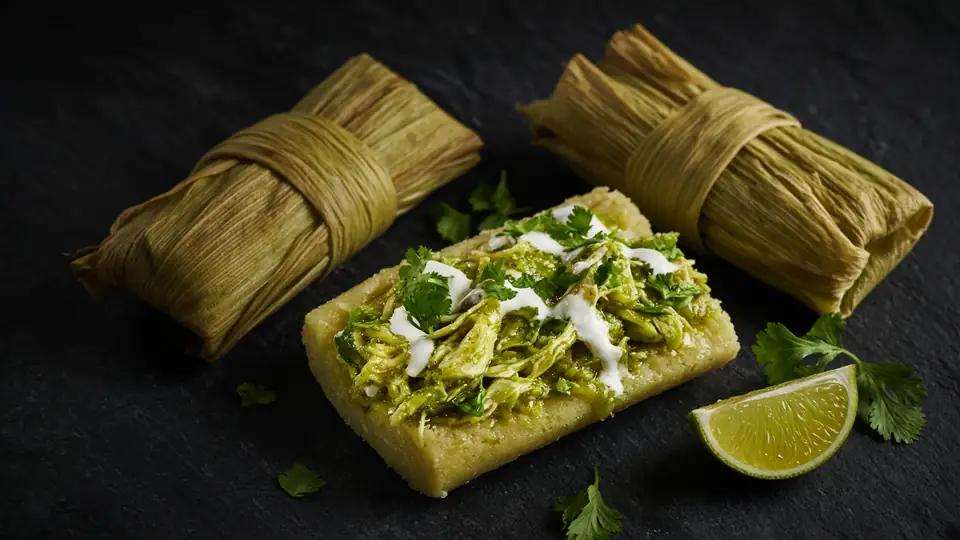
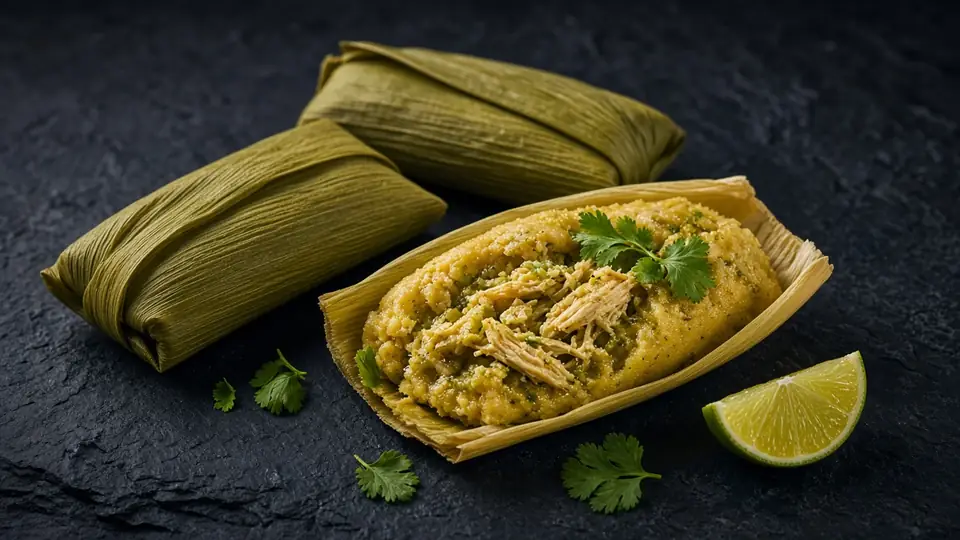
Update stock, flavor photos, and photo disclaimers. (#3)
Both flavors now have 3 dozen available. The menu uses the new tamale photos, with short illustration notes under the cards and the catering gallery. The header mark is read from config so the next logo can drop in.

diff --git a/index.html b/index.html
@@ -37,7 +37,7 @@
 
   <header class="topbar">
     <a class="brand" href="#top">
-      <img class="brandmark" src="assets/logo-icon.svg" alt="" width="500" height="500" />
+      <img class="brandmark" data-logo src="assets/logo-icon.svg" alt="" width="500" height="500" />
       <span class="brand-name">
         <strong>Arturo’s</strong>
         <span>Tamales &amp; Catering</span>
@@ -78,6 +78,7 @@
           <p>Corn masa, wrapped in husks, made for the table. Availability below is for the current batch and can change.</p>
         </div>
         <div class="menuGrid reveal" id="menu-grid"></div>
+        <p class="caption reveal">Photos are for illustration. Actual tamales may look a little different.</p>
         <div class="facts reveal">
           <div><strong data-price>$28 / dozen</strong><span>Mix the two flavors in one order</span></div>
           <div><strong>Corn masa</strong><span>Gluten-free ingredients</span></div>
@@ -210,7 +211,7 @@
             <img src="assets/catering-buffet-setup.jpg" alt="Buffet with tamales, rice, beans, and salsa" width="800" height="534" loading="lazy" decoding="async" />
           </figure>
         </div>
-        <p class="note reveal">Food photos on this page show the kind of tamales and spreads we make. They are not pictures of a specific past client event.</p>
+        <p class="caption reveal">Photos show example setups. Your menu, trays, and decor are planned with you and may differ.</p>
 
         <div class="offer-grid reveal">
           <article>
@@ -340,7 +341,7 @@
         <div class="panel reveal">
           <p><strong>Venmo</strong></p>
           <p class="muted">Confirm the account name in Venmo before you send.</p>
-          <p><a class="btn btn-primary" data-venmo href="https://venmo.com/Arturo-Gomez-70" target="_blank" rel="noopener noreferrer">Pay with Venmo</a></p>
+          <p class="pay-actions"><a class="btn btn-primary" data-venmo href="https://venmo.com/Arturo-Gomez-70" target="_blank" rel="noopener noreferrer">Pay with Venmo</a></p>
         </div>
       </div>
     </section>
@@ -372,7 +373,7 @@
     <div class="wrap foot">
       <div>
         <a class="brand brand-foot" href="#top">
-          <img class="brandmark" src="assets/logo-icon.svg" alt="" width="500" height="500" />
+          <img class="brandmark" data-logo src="assets/logo-icon.svg" alt="" width="500" height="500" />
           <span class="brand-name">
             <strong>Arturo’s</strong>
             <span>Tamales &amp; Catering</span>

diff --git a/config.js b/config.js
@@ -35,9 +35,9 @@ window.ArturoConfig = {
       description:
         "Juicy chicken and salsa verde in soft corn masa. A brighter, tangy dozen.",
       available: true,
-      dozensAvailable: 1,
+      dozensAvailable: 3,
       image: "assets/green-chicken.webp",
-      imageAlt: "A green chicken tamale in its husk on a dark slate plate, with salsa verde",
+      imageAlt: "Green chicken tamale in a corn husk on a dark plate, with salsa verde on the side",
       imageWidth: 960,
       imageHeight: 540
     },
@@ -50,7 +50,7 @@ window.ArturoConfig = {
       available: true,
       dozensAvailable: 3,
       image: "assets/red-pork.webp",
-      imageAlt: "Shredded red pork tamales on a dark slate plate with red salsa",
+      imageAlt: "Shredded red pork tamale on a dark slate plate, with salsa beside it",
       imageWidth: 960,
       imageHeight: 540
     }
@@ -81,5 +81,18 @@ window.ArturoConfig = {
 
   /** Pay only after an order is confirmed. Handle from the existing Venmo link. */
   venmoHandle: "@Arturo-Gomez-70",
-  venmoUrl: "https://venmo.com/Arturo-Gomez-70"
+  venmoUrl: "https://venmo.com/Arturo-Gomez-70",
+
+  /**
+   * Optional round photo beside the Venmo button. Leave blank until a photo is provided.
+   * venmoAvatar is a path such as "assets/venmo-avatar.jpg".
+   */
+  venmoAvatar: "",
+  venmoAvatarAlt: "",
+
+  /**
+   * Header, footer, and 404 mark. To swap the logo, change logoMark and set the
+   * same path on each img[data-logo] so the mark still shows if JavaScript is off.
+   */
+  logoMark: "assets/logo-icon.svg"
 };

diff --git a/app.js b/app.js
@@ -693,6 +693,28 @@
       if (config.venmoUrl) link.href = config.venmoUrl;
     });
     if (config.venmoHandle) setText("[data-venmo-handle]", config.venmoHandle);
+    renderVenmoAvatar();
+  }
+
+  function renderBrand() {
+    const mark = String(config.logoMark || "").trim();
+    if (!mark) return;
+    document.querySelectorAll("[data-logo]").forEach(function (img) {
+      img.src = mark;
+    });
+  }
+
+  function renderVenmoAvatar() {
+    const src = String(config.venmoAvatar || "").trim();
+    const row = document.querySelector(".pay-actions");
+    if (!row || !src) return;
+    const photo = document.createElement("img");
+    photo.className = "venmo-avatar";
+    photo.src = src;
+    photo.alt = String(config.venmoAvatarAlt || "").trim() || "Venmo profile";
+    photo.width = 48;
+    photo.height = 48;
+    row.insertBefore(photo, row.firstChild);
   }
 
   function injectSeo() {
@@ -776,6 +798,7 @@
     setText("[data-radius]", String(config.deliveryRadiusMiles));
     setText("[data-place]", config.city + ", " + config.region);
 
+    renderBrand();
     renderMenu();
     renderFlavorFields();
     renderContact();

diff --git a/404.html b/404.html
@@ -17,7 +17,7 @@
 <body class="missing">
   <main class="missing-main">
     <a class="brand" href="/">
-      <img class="brandmark" src="/assets/logo-icon.svg" alt="" width="500" height="500" />
+      <img class="brandmark" data-logo src="/assets/logo-icon.svg" alt="" width="500" height="500" />
       <span class="brand-name">
         <strong>Arturo’s</strong>
         <span>Tamales &amp; Catering</span>
@@ -28,5 +28,14 @@
     <p>The link may be old. The tamales are still on the home page.</p>
     <a class="btn btn-primary" href="/">Back to Arturo’s</a>
   </main>
+  <script src="/config.js"></script>
+  <script>
+    (function () {
+      var mark = window.ArturoConfig && ArturoConfig.logoMark;
+      if (!mark) return;
+      var src = mark.charAt(0) === "/" ? mark : "/" + mark.replace(/^\.\//, "");
+      document.querySelectorAll("[data-logo]").forEach(function (img) { img.src = src; });
+    })();
+  </script>
 </body>
 </html>

diff --git a/styles.css b/styles.css
@@ -523,6 +523,31 @@ h1 {
 
 .note { margin: 14px 0 0; font-size: 0.92rem; }
 
+.caption {
+  margin: 14px 0 0;
+  max-width: 62ch;
+  font-size: 0.86rem;
+  line-height: 1.45;
+  color: var(--muted);
+}
+
+.catering .caption { color: #e7d8c8; }
+
+.pay-actions {
+  display: flex;
+  align-items: center;
+  gap: 14px;
+  flex-wrap: wrap;
+}
+
+.venmo-avatar {
+  width: 48px;
+  height: 48px;
+  border-radius: 50%;
+  object-fit: cover;
+  border: 2px solid var(--gold);
+}
+
 .offer-grid {
   display: grid;
   grid-template-columns: repeat(3, 1fr);
